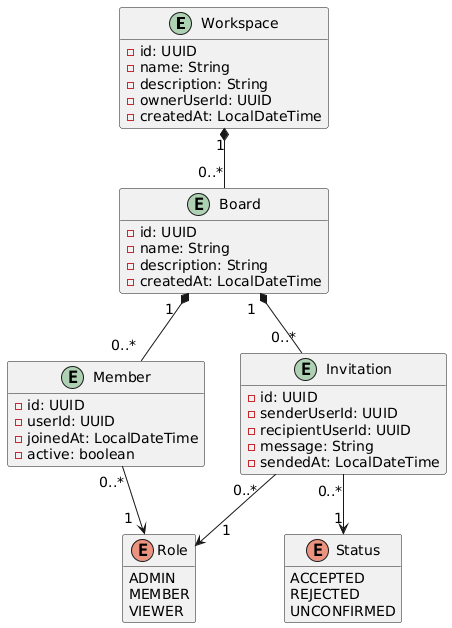
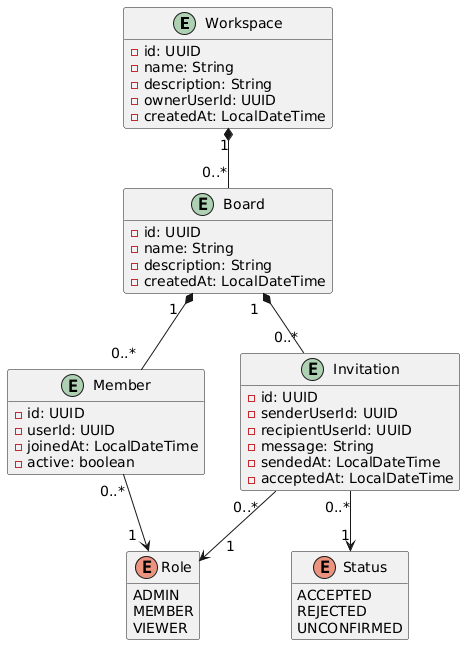
Se realiza un seguimiento de las invitaciones aceptadas y se programa el ejecutor de tareas en Project
Se añade el campo `acceptedAt` a las invitaciones y se propaga. Ahora, al aceptar una invitación se registra la marca de tiempo, al rechazarla se marca como rechazada y `deleteInvitation` utiliza el ID de usuario propietario correcto (esto habia sido un error de programación). Se habilita la programación de tareas de Spring y se añade una tarea de limpieza periódica que elimina las invitaciones aceptadas cuando ya no son necesarias luego de 1 semana.

Changed region(s): [[0.0, 0.0, 0.9912, 0.9984]]

diff --git a/trelloparent/businessdomain/project/src/main/java/com/trello/project/invitation/service/InvitationServiceImpl.java b/trelloparent/businessdomain/project/src/main/java/com/trello/project/invitation/service/InvitationServiceImpl.java
@@ -76,6 +76,8 @@ public class InvitationServiceImpl implements InvitationService {
         Board board = boardProjectService.findBoardByIdAndOwnerUserId(boardId, ownerUserId);
         // System.out.println(board.getId());
 
+        // Si hay una invitación rechazada, no podra volver a enviar la invitación a
+        // menos de que haya eliminado la invitación del sistema
         if (invitationProjectService.existsInvitationByBoardIdAndRecipientUserId(boardId, recipientUserId)) {
             throw new InvitationAlreadyExistsException();
         }
@@ -153,7 +155,7 @@ public class InvitationServiceImpl implements InvitationService {
 
     @Override
     public void deleteInvitation(UUID invitationId, UUID ownerUserId) {
-        invitationProjectService.deleteInvitationByIdAndSenderUserId(invitationId, invitationId);
+        invitationProjectService.deleteInvitationByIdAndSenderUserId(invitationId, ownerUserId);
     }
 
     @Override
@@ -168,6 +170,7 @@ public class InvitationServiceImpl implements InvitationService {
         }
 
         findedInvitation.setStatus(Status.ACCEPTED);
+        findedInvitation.setAcceptedAt(LocalDateTime.now());
 
         invitationProjectService.saveInvitation(findedInvitation);
 
@@ -226,7 +229,9 @@ public class InvitationServiceImpl implements InvitationService {
             throw new InvitationConfirmedException();
         }
 
-        findedInvitation.setStatus(Status.UNCONFIRMED);
+        // Marcar la invitación como rechazada
+        // El administrador del espacio de trabajo podra verlo que ha sido rechazado
+        findedInvitation.setStatus(Status.REJECTED);
         invitationProjectService.saveInvitation(findedInvitation);
     }
 

diff --git a/trelloparent/businessdomain/project/src/main/java/com/trello/project/repositories/InvitationRepository.java b/trelloparent/businessdomain/project/src/main/java/com/trello/project/repositories/InvitationRepository.java
@@ -3,10 +3,14 @@ package com.trello.project.repositories;
 import java.util.UUID;
 
 import org.springframework.data.jpa.repository.JpaRepository;
+import org.springframework.data.jpa.repository.Modifying;
+import org.springframework.data.jpa.repository.Query;
+import org.springframework.data.repository.query.Param;
 
 import com.trello.project.entities.Invitation;
 import com.trello.project.enums.Status;
 
+import java.time.LocalDateTime;
 import java.util.List;
 import java.util.Optional;
 
@@ -25,10 +29,18 @@ public interface InvitationRepository extends JpaRepository<Invitation, UUID> {
 
     Optional<Invitation> findByIdAndRecipientUserId(UUID id, UUID recipientUserId);
 
-    Optional<Invitation> findByBoardIdAndRecipientUserId(UUID boardId, UUID recipientUserId);
+    // Optional<Invitation> findByBoardIdAndRecipientUserId(UUID boardId, UUID
+    // recipientUserId);
 
     void deleteByBoardIdAndRecipientUserIdAndSenderUserId(
             UUID boardId,
             UUID recipientUserId,
             UUID senderUserId);
+
+    @Modifying
+    @Query("""
+                DELETE FROM Invitation i
+                WHERE i.acceptedAt <= :now
+            """)
+    void deleteAcceptedInvitations(@Param("now") LocalDateTime now);
 }

diff --git a/trelloparent/businessdomain/project/src/main/java/com/trello/project/service/InvitationProjectServiceImpl.java b/trelloparent/businessdomain/project/src/main/java/com/trello/project/service/InvitationProjectServiceImpl.java
@@ -3,6 +3,7 @@ package com.trello.project.service;
 import com.trello.project.repositories.BoardRepository;
 import com.trello.project.repositories.InvitationRepository;
 
+import java.time.LocalDateTime;
 import java.util.List;
 import java.util.UUID;
 
@@ -83,5 +84,14 @@ public class InvitationProjectServiceImpl implements InvitationProjectService {
     public void deleteInvitationIfExistsByBoardIdAndRecipientUserId(UUID boardId, UUID recipientUserId,
             UUID senderUserId) {
         invitationRepository.deleteByBoardIdAndRecipientUserIdAndSenderUserId(boardId, recipientUserId, senderUserId);
+    }
+
+    // Como este método se va a ejecutar automaticamente cada cierto tiempo debe
+    // tener un @Transactional
+    @Override
+    @Transactional
+    public void deleteAllAcceptedInvitations() {
+        LocalDateTime now = LocalDateTime.now();
+        invitationRepository.deleteAcceptedInvitations(now);
     }
 }

diff --git a/trelloparent/businessdomain/project/src/main/java/com/trello/project/scheduler/InvitationCleanupScheduler.java b/trelloparent/businessdomain/project/src/main/java/com/trello/project/scheduler/InvitationCleanupScheduler.java
@@ -1,0 +1,26 @@
+package com.trello.project.scheduler;
+
+import java.util.concurrent.TimeUnit;
+
+import org.springframework.scheduling.annotation.Scheduled;
+import org.springframework.stereotype.Component;
+
+import com.trello.project.service.InvitationProjectService;
+
+import lombok.RequiredArgsConstructor;
+import lombok.extern.slf4j.Slf4j;
+
+@Component
+@RequiredArgsConstructor
+@Slf4j
+public class InvitationCleanupScheduler {
+    private final InvitationProjectService invitationProjectService;
+
+    // Por cada semana se van a eliminar las invitaciones aceptadas
+    @Scheduled(fixedRate = 7, timeUnit = TimeUnit.DAYS)
+    public void deleteAcceptedInvitations() {
+        log.info("ELIMINANDO TODAS LAS INVITACIONES ACEPTADAS");
+
+        invitationProjectService.deleteAllAcceptedInvitations();
+    }
+}

diff --git a/trelloparent/businessdomain/project/src/main/java/com/trello/project/invitation/service/InvitationService.java b/trelloparent/businessdomain/project/src/main/java/com/trello/project/invitation/service/InvitationService.java
@@ -29,6 +29,7 @@ public interface InvitationService {
     // Eliminar invitación
     // Una invitación que aun no ha sido confirmada, si se elimina, se elimina la
     // invitación del sistema
+    // Acceso por parte del administrador del tablero
     void deleteInvitation(UUID invitationId, UUID ownerUserId);
 
     // Aceptar invitación (por el usuario receptor)
@@ -39,6 +40,7 @@ public interface InvitationService {
     void acceptInvitation(UUID invitationId, UUID recipientUserId);
 
     // Rechazar invitación
+    // Acceso por parte del usuario receptor
     void declineInvitation(UUID invitationId, UUID recipientUserId);
 
     // Reenviar invitación

diff --git a/trelloparent/businessdomain/project/src/main/java/com/trello/project/invitation/mapper/InvitationRequestMapper.java b/trelloparent/businessdomain/project/src/main/java/com/trello/project/invitation/mapper/InvitationRequestMapper.java
@@ -16,7 +16,8 @@ public interface InvitationRequestMapper {
             @Mapping(target = "senderUserId", ignore = true),
             @Mapping(target = "recipientUserId", ignore = true),
             @Mapping(target = "status", ignore = true),
-            @Mapping(target = "sendedAt", ignore = true)
+            @Mapping(target = "sendedAt", ignore = true),
+            @Mapping(target = "acceptedAt", ignore = true)
     })
     Invitation invitationRequestToInvitation(InvitationRequest source);
 }

diff --git a/trelloparent/businessdomain/project/src/main/java/com/trello/project/ProjectApplication.java b/trelloparent/businessdomain/project/src/main/java/com/trello/project/ProjectApplication.java
@@ -3,8 +3,10 @@ package com.trello.project;
 import org.springframework.boot.SpringApplication;
 import org.springframework.boot.autoconfigure.SpringBootApplication;
 import org.springframework.cloud.openfeign.EnableFeignClients;
+import org.springframework.scheduling.annotation.EnableScheduling;
 
 @SpringBootApplication
+@EnableScheduling
 @EnableFeignClients
 public class ProjectApplication {
 

diff --git a/trelloparent/businessdomain/project/src/main/java/com/trello/project/service/InvitationProjectService.java b/trelloparent/businessdomain/project/src/main/java/com/trello/project/service/InvitationProjectService.java
@@ -29,4 +29,6 @@ public interface InvitationProjectService {
 
     void deleteInvitationIfExistsByBoardIdAndRecipientUserId(
             UUID boardId, UUID recipientUserId, UUID senderUserId);
+
+    void deleteAllAcceptedInvitations();
 }

diff --git a/trelloparent/businessdomain/project/src/main/java/com/trello/project/entities/Invitation.java b/trelloparent/businessdomain/project/src/main/java/com/trello/project/entities/Invitation.java
@@ -56,4 +56,7 @@ public class Invitation {
     // @Column(nullable = false, updatable = false)
     @Column(nullable = false)
     private LocalDateTime sendedAt;
+
+    // Fecha de aceptación
+    private LocalDateTime acceptedAt;
 }
